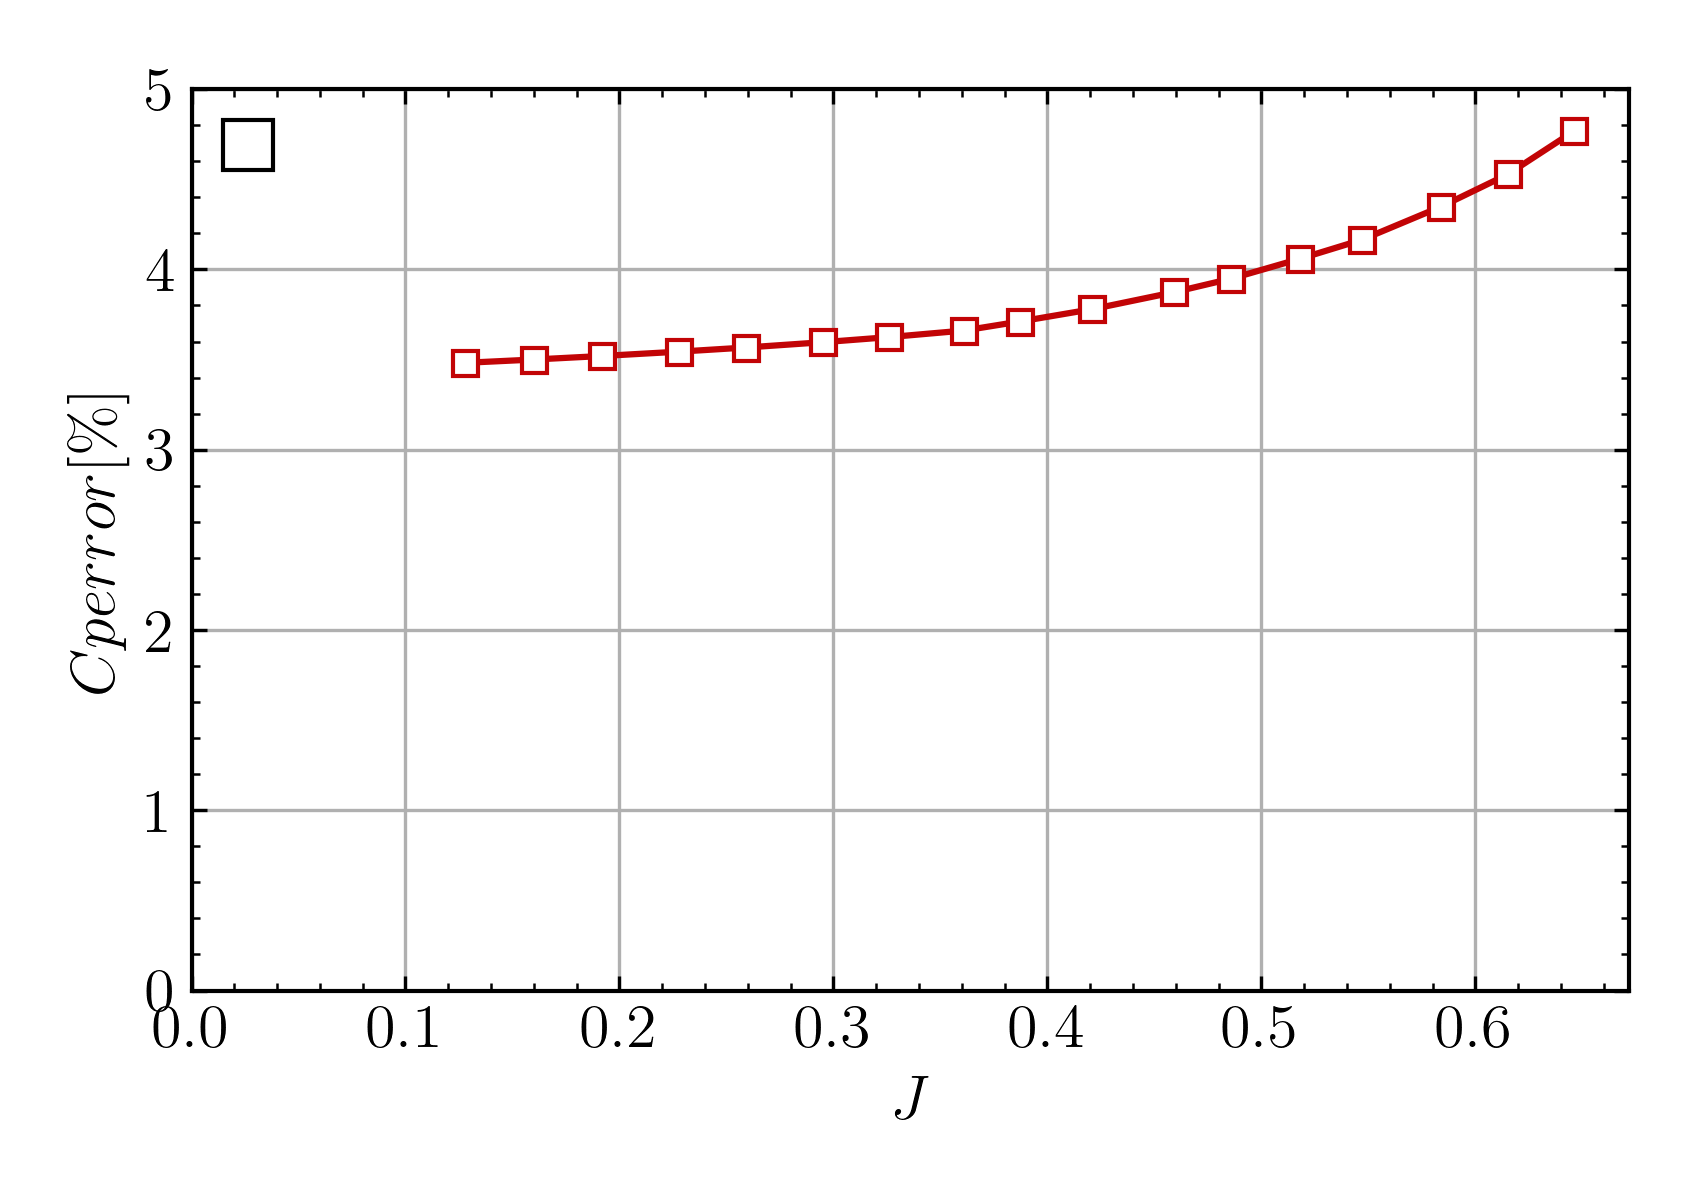
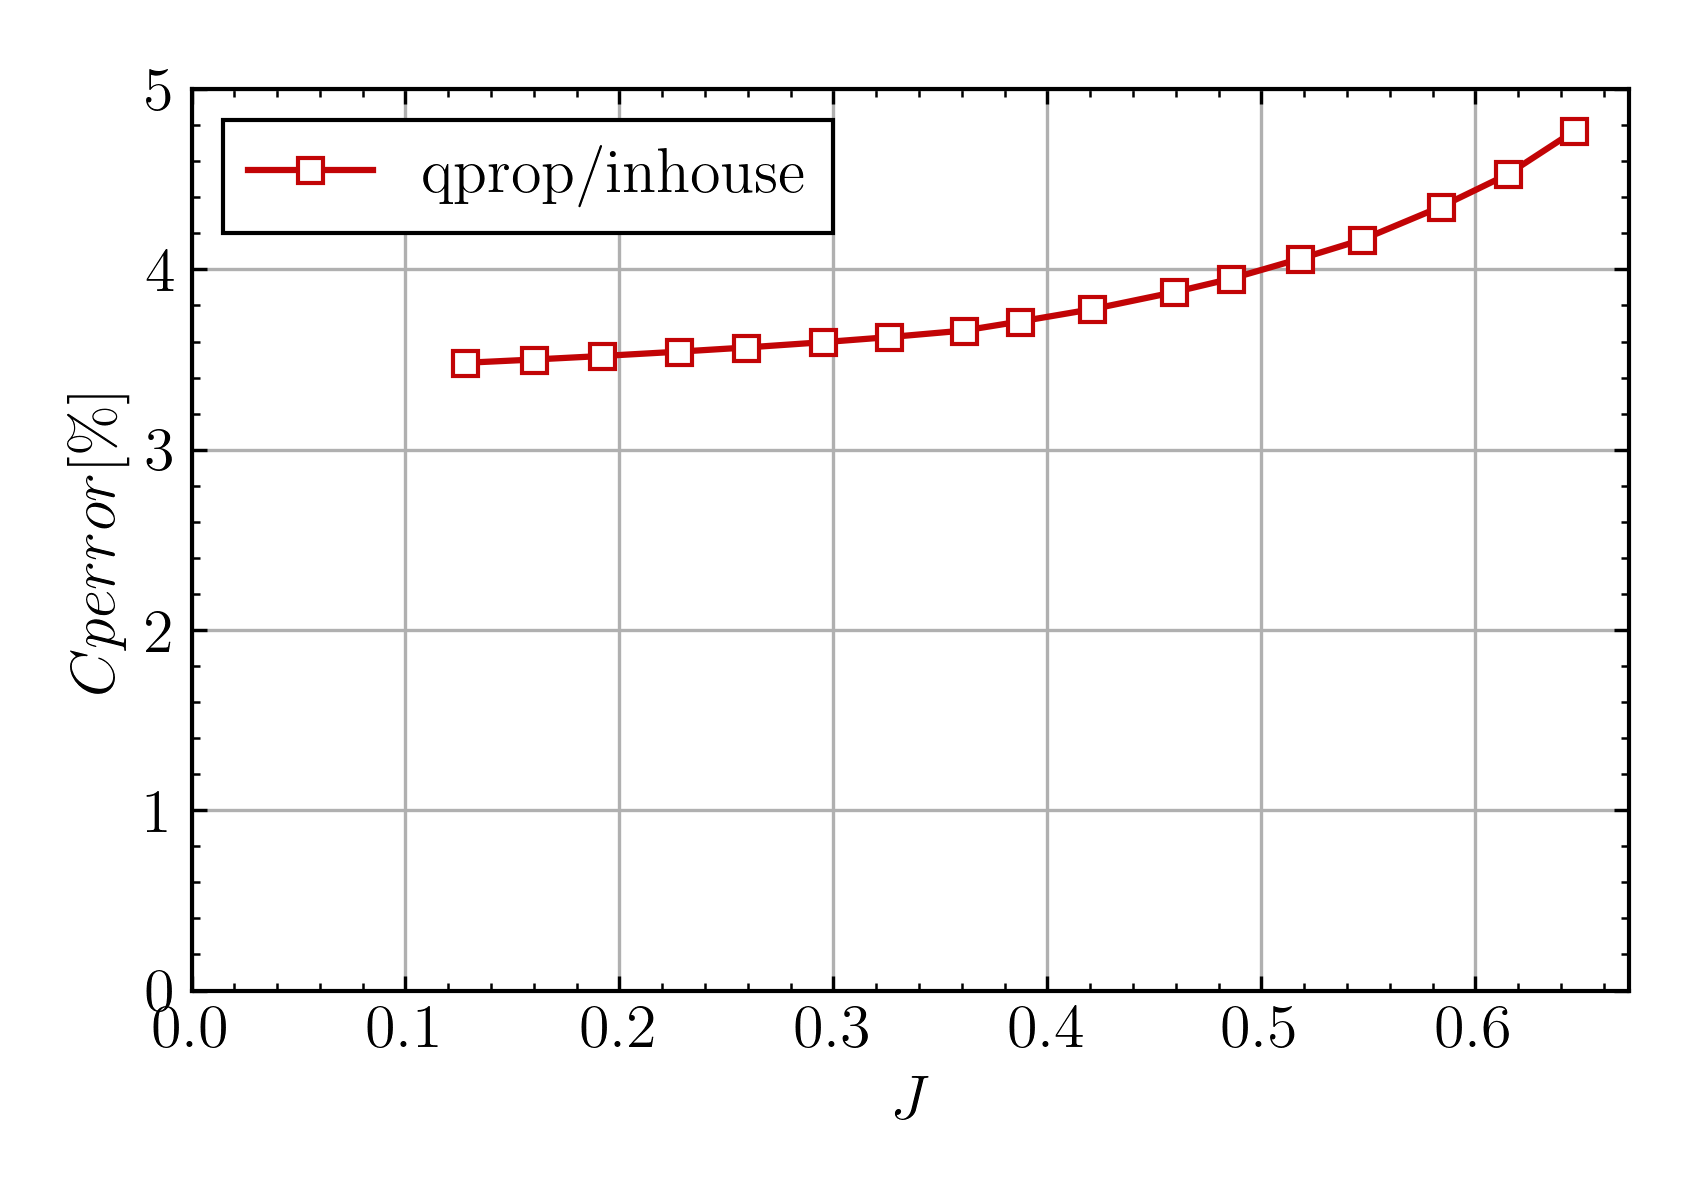
stable BR (Brent Method) -> no effects

Changed region(s): [[0.125, 0.0925, 0.5, 0.2158]]

diff --git a/ANALYSIS/perform_analysis_refactor.py b/ANALYSIS/perform_analysis_refactor.py
@@ -3,6 +3,7 @@ import matplotlib.pyplot as plt
 import math
 import argparse
 from scipy.optimize import fsolve
+from scipy.optimize import root_scalar
 
 PI = math.pi
 
@@ -126,7 +127,8 @@ class HFprop:
                 self.update_qprop(i)
                 return self.gamma[i] - 0.5 *self.W[i] * self.c[i] * self.cl[i]
             
-            ans = fsolve(equation, np.arctan2(self.Ua, self.Ut[i]))
+            # ans = fsolve(equation, np.arctan2(self.Ua, self.Ut[i]))
+            ans = root_scalar(equation, bracket=(0, 90), method='brentq').root
             self.psi[i] = ans
             self.update_qprop(i)
         # self.update()

diff --git a/ANALYSIS/validation/validation-qprop.py b/ANALYSIS/validation/validation-qprop.py
@@ -174,7 +174,7 @@ plt.savefig('eta-J-qrop.png')
 
 plt.figure(dpi=300, figsize=(1.414*4, 4))
 error = (np.array(qprop_Cp) / np.array(hfprop_Cp_smoozedtable) -1 ) * 100
-plt.plot(uiuc_J, error, marker='s')
+plt.plot(uiuc_J, error, marker='s', label='qprop/inhouse')
 plt.xlabel('$J$')
 plt.ylabel('$Cp error$[\%]')
 plt.xlim(0, None)
